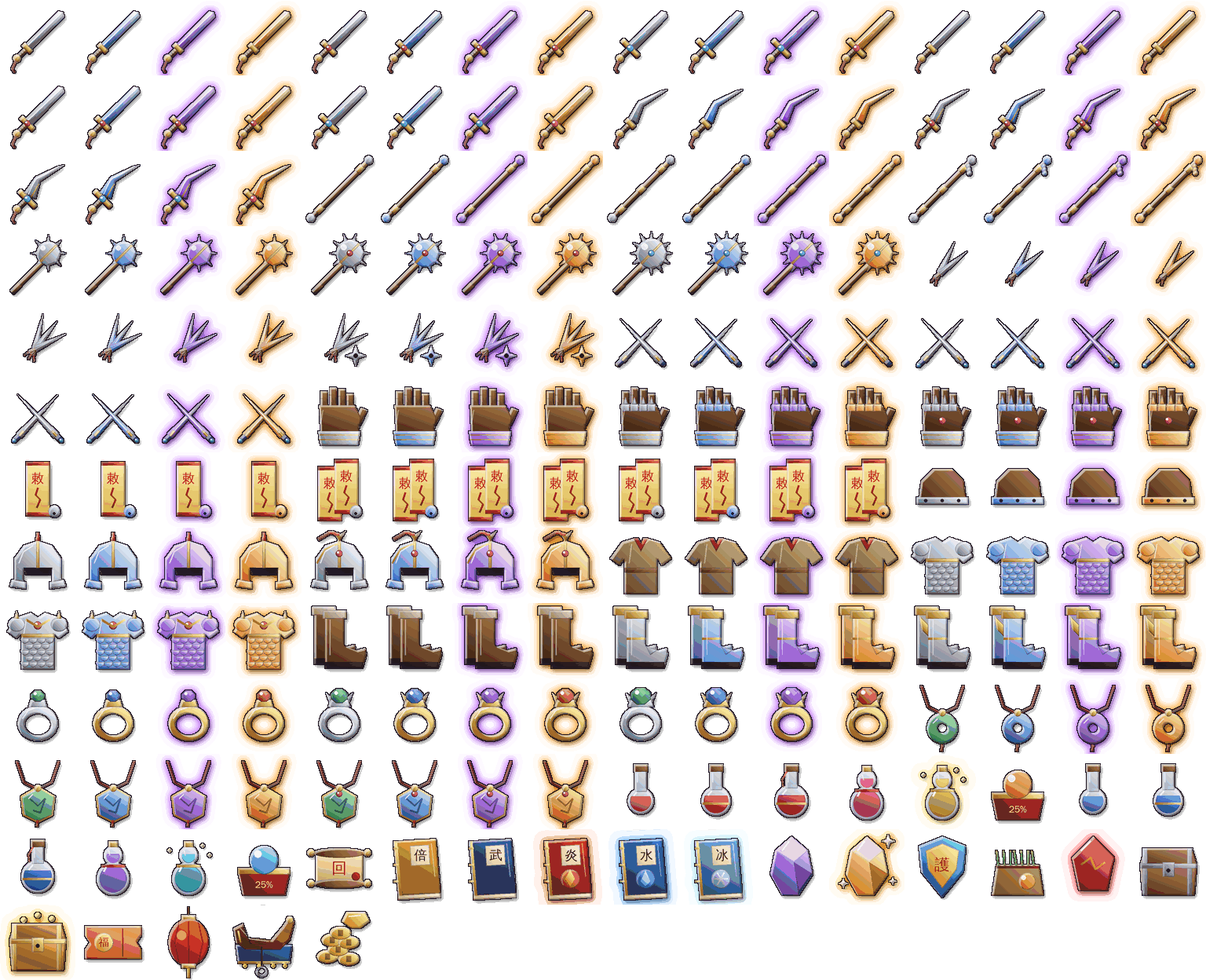
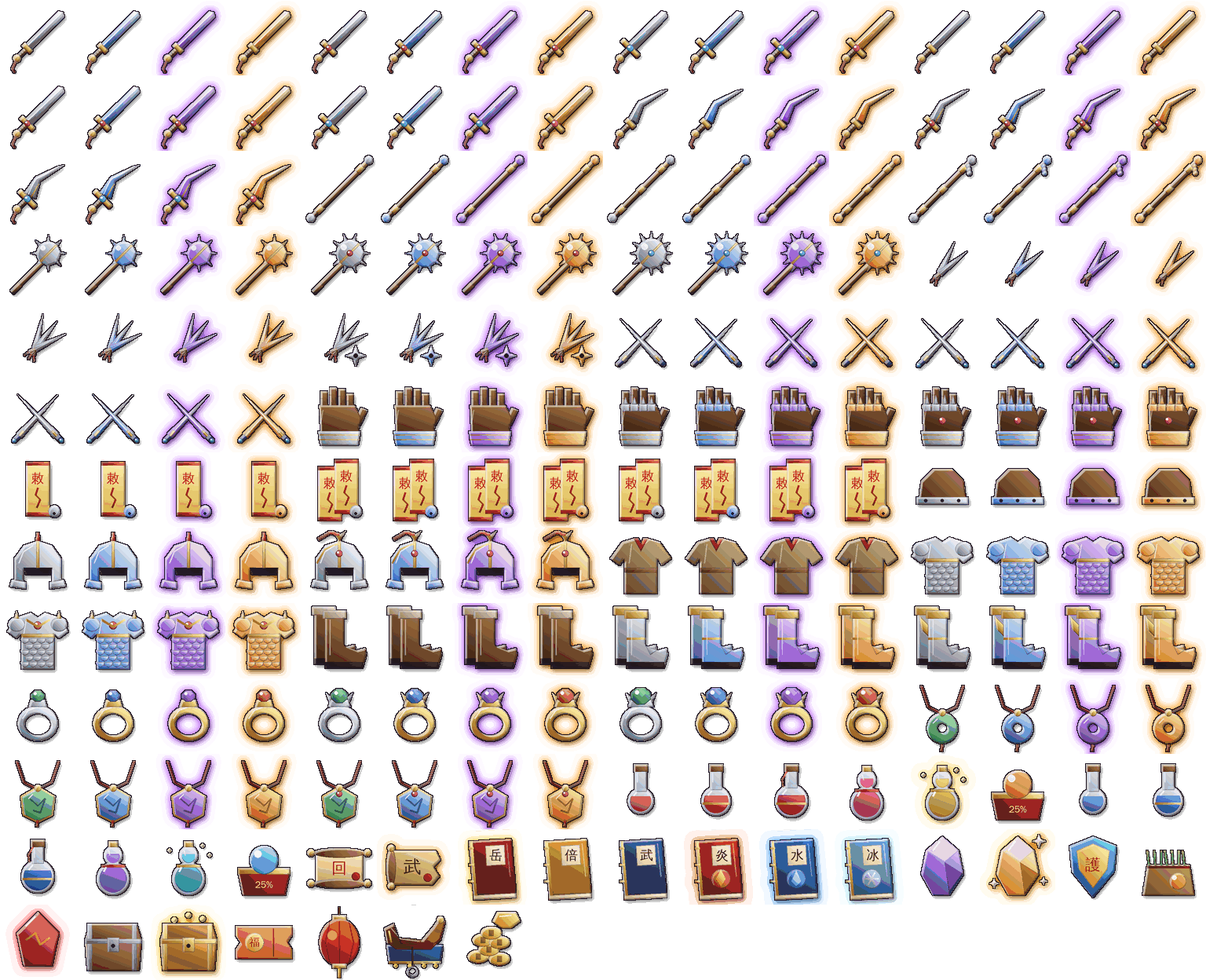
Add story bosses and items: Vo Muc Di Thu scrolls, Kim Luan, Nhac Vu Muc
Story items (Vo Muc Di Thu):
- vm_tq1..vm_tq7, the 7 torn volumes. Each world boss drops its own volume:
  Lang Vuong 1, Thanh Xa 2, Doc Co 3, Hat Hoang 4, Bang Cung 5, Thien Ma 6,
  Kim Luan 7. Con Lon, Huyet Ma and Nhac Vu Muc drop random ones.
- Top 3 damage dealers always get one, ranks 4-10 get one 40% of the time.
- Using a volume with all 7 in the bag combines them into vm_dithu
  (announced server-wide). Otherwise it lists the missing volumes.
- Studying Vo Muc Di Thu permanently adds 3% attack, defence and HP per
  read, up to 5 reads (c.vmb, applied in calcStats).
- New icons: torn scroll and red book with 岳.

New bosses and monsters:
- Kim Luan Phap Vuong (lv58), the Mongol state preceptor, at Hac Phong
  Coc, every 2 hours. Six skills: golden wheels, Long Tuong Ban Nhuoc,
  fire blade, charge plus stomp, great hand seal.
- Mong Co Thiet Ky (lv52) added to Hac Phong Coc, where the story says the
  Mongol army joined the cult.
- New map Nhac Vuong Mieu (minLv 65), a wide temple courtyard north of
  Vo Luong Son Coc with censer, banners, stone lamps and Nhac Gia Quan
  Hon guards (lv74) in the corners.
- World boss Nhac Vu Muc Anh Linh (lv85), every 4 hours:
  - 30M HP, 1700 attack, 420 defence. Sized for about 30 lv70 players over
    5-10 minutes.
  - 13 skills covering every element: Lich Tuyen Than Thuong, Van Tien
    Xuyen Van, Thiet Ky Dap Doanh, Hoa Thieu Lien Doanh, Hoanh Tao Thien
    Quan, Man Giang Hong, Loi Dinh Van Quan, Bac Phong Han Thuong, Son Ha
[…]

Changed region(s): [[0.0, 0.8438, 1.0, 1.0]]

diff --git a/server/data/bossskills.js b/server/data/bossskills.js
@@ -44,6 +44,27 @@ const SK = {
   hm_trao:     { name: 'Huyết Ma Trảo', pattern: 'cone', r: 270, arc: 110, windup: 900, mult: 1.8, st: ['bleed', 5000], vfx: 'blood', color: '#ff1020' },
   hm_nguyet:   { name: 'Huyết Nguyệt Giáng Thế', pattern: 'multi', n: 14, r: 80, spread: 280, windup: 1400, stagger: 80, mult: 1.2, vfx: 'blood', color: '#ff4040' },
   hm_dotkich:  { name: 'Huyết Ảnh Đột Kích', pattern: 'dash', len: 360, w: 80, windup: 700, mult: 1.4, drain: 0.3, vfx: 'blood', color: '#ff3050', then: { pattern: 'dash', len: 360, w: 80, delay: 500, mult: 1.4 } },
+  // ---- Kim Luân Pháp Vương (quốc sư Mông Cổ: kim luân + Long Tượng Bàn Nhược Công) ----
+  kl_nguluan:  { name: 'Ngũ Luân Đại Pháp', pattern: 'fan', n: 5, spreadDeg: 60, len: 460, w: 48, windup: 950, mult: 1.4, vfx: 'blade', color: '#ffd040' },
+  kl_philuan:  { name: 'Kim Luân Phi Chuyển', pattern: 'multi', n: 9, r: 78, spread: 230, windup: 1200, stagger: 120, mult: 1.2, vfx: 'holy', color: '#ffe070' },
+  kl_longtuong:{ name: 'Long Tượng Bàn Nhược', pattern: 'waves', rings: [[0, 140], [140, 260], [260, 360]], stagger: 450, windup: 1300, mult: 1.6, st: ['stun', 1000], vfx: 'rock', color: '#e0a040' },
+  kl_hoadao:   { name: 'Mật Tông Hỏa Diễm Đao', pattern: 'cone', r: 320, arc: 100, windup: 1000, mult: 1.6, st: ['burn', 4000], vfx: 'fire', color: '#ff6020' },
+  kl_xung:     { name: 'Kim Cang Xung Kích', pattern: 'dash', len: 380, w: 90, windup: 800, mult: 1.3, vfx: 'rock', color: '#ffb040', then: { pattern: 'self', r: 200, delay: 350, mult: 1.4, st: ['stun', 900] } },
+  kl_chuong:   { name: 'Đại Thủ Ấn', pattern: 'circle', r: 150, windup: 1100, mult: 2.0, st: ['stun', 1200], vfx: 'holy', color: '#ffd860' },
+  // ---- Nhạc Vũ Mục Anh Linh (boss thế giới tối thượng: thương pháp, thiết kỵ, binh pháp – đủ mọi hệ) ----
+  vm_thuong:   { name: 'Lịch Tuyền Thần Thương', pattern: 'line', len: 620, w: 84, windup: 900, mult: 1.8, st: ['bleed', 3000], vfx: 'blade', color: '#fff0c0' },
+  vm_hoanh:    { name: 'Hoành Tảo Thiên Quân', pattern: 'cone', r: 340, arc: 160, windup: 1000, mult: 1.6, st: ['slow', 2500], vfx: 'wind', color: '#e8f0ff' },
+  vm_kyxung:   { name: 'Thiết Kỵ Đạp Doanh', pattern: 'dash', len: 440, w: 110, windup: 850, mult: 1.6, vfx: 'rock', color: '#d8a050', then: { pattern: 'waves', rings: [[0, 150], [150, 280]], stagger: 400, delay: 300, mult: 1.3, st: ['stun', 800] } },
+  vm_tien:     { name: 'Vạn Tiễn Xuyên Vân', pattern: 'multi', n: 22, r: 72, spread: 340, windup: 1300, stagger: 60, mult: 1.0, vfx: 'blade', color: '#d8eaff' },
+  vm_hoa:      { name: 'Hỏa Thiêu Liên Doanh', pattern: 'multi', n: 12, r: 105, spread: 320, windup: 1400, stagger: 110, mult: 1.4, st: ['burn', 5000], vfx: 'fire', color: '#ff6a20' },
+  vm_mangiang: { name: 'Mãn Giang Hồng', pattern: 'waves', rings: [[0, 120], [120, 230], [230, 340], [340, 450]], stagger: 420, windup: 1300, mult: 1.5, st: ['bleed', 5000], vfx: 'blood', color: '#ff2030' },
+  vm_tinhtrung:{ name: 'Tinh Trung Báo Quốc', pattern: 'self', r: 330, windup: 2100, mult: 2.4, vfx: 'holy', color: '#ffe080', then: { pattern: 'star', n: 8, len: 480, w: 56, delay: 500, mult: 1.4 } },
+  vm_diachan:  { name: 'Sơn Hà Chấn Động', pattern: 'star', n: 6, len: 470, w: 64, windup: 1100, mult: 1.6, st: ['stun', 1000], vfx: 'rock', color: '#d8a050', then: { pattern: 'ring', r1: 180, r2: 330, delay: 600, mult: 1.3 } },
+  vm_loi:      { name: 'Lôi Đình Vạn Quân', pattern: 'multi', n: 10, r: 100, spread: 300, windup: 1300, stagger: 160, mult: 1.5, st: ['stun', 900], vfx: 'thunder', color: '#fff27a' },
+  vm_bang:     { name: 'Bắc Phong Hàn Thương', pattern: 'fan', n: 7, spreadDeg: 80, len: 480, w: 46, windup: 950, mult: 1.3, st: ['freeze', 1400], vfx: 'ice', color: '#b0f0ff' },
+  vm_langyen:  { name: 'Lang Yên Phong Hỏa', pattern: 'multi', n: 8, r: 110, spread: 300, windup: 1200, stagger: 120, mult: 1.0, st: ['poison', 6000], vfx: 'poison', color: '#9aff50' },
+  vm_quanhon:  { name: 'Nhạc Gia Quân Hồn', pattern: 'ring', r1: 120, r2: 360, windup: 1400, mult: 1.3, pull: 0.35, vfx: 'dark', color: '#c080ff', summon: 4 },
+  vm_tuyetanh: { name: 'Tuyệt Ảnh Liên Thương', pattern: 'parallel', n: 5, len: 540, w: 54, gap: 80, stagger: 200, windup: 900, mult: 1.4, vfx: 'wind', color: '#ffffff' },
   // ---- Boss phó bản ----
   pb1_chuy:    { name: 'Bá Vương Chùy', pattern: 'circle', r: 130, windup: 1100, mult: 1.8, st: ['stun', 1200], vfx: 'rock', color: '#ffb040' },
   pb1_toan:    { name: 'Toàn Phong Chùy', pattern: 'waves', rings: [[0, 170], [0, 170], [0, 170]], stagger: 450, windup: 900, mult: 0.8, vfx: 'wind', color: '#ffd080' },
@@ -70,6 +91,8 @@ const BOSS_SKILLS = {
   boss_ma: ['ma_giaithe', 'ma_diem', 'ma_hapt', 'ma_anh'],
   boss_conlon: ['cl_ngulo', 'cl_luongnghi', 'cl_thaicuc', 'cl_loiquang'],
   boss_huyet: ['hm_haithao', 'hm_trao', 'hm_nguyet', 'hm_dotkich'],
+  boss_kimluan: ['kl_nguluan', 'kl_philuan', 'kl_longtuong', 'kl_hoadao', 'kl_xung', 'kl_chuong'],
+  boss_vumuc: ['vm_thuong', 'vm_tien', 'vm_kyxung', 'vm_hoa', 'vm_hoanh', 'vm_mangiang', 'vm_loi', 'vm_bang', 'vm_diachan', 'vm_langyen', 'vm_tuyetanh', 'vm_quanhon', 'vm_tinhtrung'],
   pb1_boss: ['pb1_chuy', 'pb1_toan', 'pb1_xung'],
   pb2_boss: ['pb2_thidoc', 'pb2_hong', 'pb2_cotthu'],
   pb3_boss: ['pb3_haithao', 'pb3_trao', 'pb3_anh'],

diff --git a/server/data/maps.js b/server/data/maps.js
@@ -159,7 +159,7 @@ const MAP_DEFS = {
     name: 'Hắc Phong Cốc', theme: 'tomb', w: 44, h: 30, seed: 67, lv: '48-54', tier: 5,
     portals: [{ side: 'W', to: 'bang_cung' }, { side: 'E', to: 'ma_giao' }],
     npcs: [],
-    spawns: [['ma_lang', 8], ['hac_y_ma', 8], ['viem_quy', 7], ['viem_quy', 6]]
+    spawns: [['ma_lang', 8], ['hac_y_ma', 8], ['viem_quy', 7], ['viem_quy', 6], ['mong_co_ky', 7], ['mong_co_ky', 6]]
   },
   ma_giao: {
     name: 'Ma Giáo Cấm Địa', theme: 'demon', w: 48, h: 36, seed: 71, lv: '50+', tier: 5,
@@ -243,7 +243,7 @@ const MAP_DEFS = {
   },
   vo_luong: {
     name: 'Vô Lượng Sơn Cốc', theme: 'bamboo', w: 48, h: 36, seed: 127, lv: '72-80', tier: 7, minLv: 65,
-    portals: [{ side: 'W', to: 'con_lon' }, { side: 'E', to: 'huyet_ma' }],
+    portals: [{ side: 'W', to: 'con_lon' }, { side: 'E', to: 'huyet_ma' }, { side: 'N', to: 'nhac_mieu', at: 0.5 }],
     npcs: [{ id: 'thuong_nhan', x: 5, y: 15 }, { id: 'xa_phu', x: 6, y: 19 }],
     spawns: [['doc_mang', 9], ['doc_mang', 7], ['xich_ho', 8], ['xich_ho', 7], ['vo_luong_kiem', 7], ['vo_luong_kiem', 6]]
   },
@@ -252,6 +252,13 @@ const MAP_DEFS = {
     portals: [{ side: 'W', to: 'vo_luong' }, { side: 'E', to: 'doan_hon' }],
     npcs: [{ id: 'thuong_nhan', x: 5, y: 15 }, { id: 'xa_phu', x: 6, y: 19 }],
     spawns: [['huyet_lang', 9], ['huyet_lang', 7], ['huyet_ma_binh', 8], ['huyet_ma_binh', 7], ['huyet_sat', 7], ['huyet_sat', 6]]
+  },
+  // Nhạc Vương Miếu: sân miếu rộng cho cả võ lâm hợp sức đánh Boss thế giới Nhạc Vũ Mục Anh Linh
+  nhac_mieu: {
+    name: 'Nhạc Vương Miếu', theme: 'arena', w: 52, h: 40, seed: 141, lv: '70+', tier: 7, minLv: 65, temple: true,
+    portals: [{ side: 'S', to: 'vo_luong', at: 0.5 }],
+    npcs: [{ id: 'thuong_nhan', x: 22, y: 34 }],
+    spawns: [['nhac_gia_quan', 5, 10, 30, 3], ['nhac_gia_quan', 5, 41, 30, 3], ['nhac_gia_quan', 4, 10, 10, 3], ['nhac_gia_quan', 4, 41, 10, 3]]
   },
   doan_hon: {
     name: 'Đoạn Hồn Nhai', theme: 'tomb', w: 44, h: 32, seed: 137, lv: '88-99', tier: 8, minLv: 85,
@@ -540,6 +547,13 @@ function generate(id, def = MAP_DEFS[id]) {
   if (def.theme === 'arena') {
     for (let y = 5; y < h - 5; y++) for (let x = 6; x < w - 6; x++) set(x, y, T.FLOOR);
   }
+  if (def.temple) {   // miếu thờ: sân đá trống giữa (chỗ Boss), cờ, đèn đá, lư hương, cây cổ thụ quanh tường
+    for (let y = 4; y < h - 4; y++) for (let x = 5; x < w - 5; x++) set(x, y, T.FLOOR);
+    for (let y = 1; y < h - 1; y++) for (let x = 1; x < w - 1; x++) if ((x < 4 || x > w - 5 || y < 3) && r() < 0.5) set(x, y, T.TREE);
+    props.push({ x: cx, y: 6, k: 'censer' });
+    for (const dx of [-9, -5, 5, 9]) props.push({ x: cx + dx, y: 5, k: 'banner' });
+    for (const [px, py] of [[8, 9], [w - 9, 9], [8, h - 10], [w - 9, h - 10], [cx - 12, cy], [cx + 12, cy]]) props.push({ x: px, y: py, k: 'stonelamp' });
+  }
   if (def.tourney) {   // Đại Hội: sân đá rộng, không chướng ngại, hồ nước bốn góc
     for (let y = 2; y < h - 2; y++) for (let x = 2; x < w - 2; x++) set(x, y, T.FLOOR);
     for (const [qx, qy] of [[4, 4], [w - 7, 4], [4, h - 7], [w - 7, h - 7]]) for (let y = 0; y < 3; y++) for (let x = 0; x < 3; x++) set(qx + x, qy + y, T.WATER);
@@ -627,7 +641,7 @@ function generate(id, def = MAP_DEFS[id]) {
   return {
     id, name: def.name, theme: def.theme, w, h, tiles: g, safe: !!def.safe, pvp: !!def.pvp, tourney: !!def.tourney, minLv: def.minLv || 1, lv: def.lv, tier: def.tier ?? 0, town: !!def.town,
     portals, npcs: def.npcs, spawns, walkable, buildings, props, sect: def.sect || null, noPk: !!def.noPk,
-    boss: { x: bossSpot % w, y: (bossSpot / w) | 0 },
+    boss: def.temple ? { x: cx, y: cy - 4 } : { x: bossSpot % w, y: (bossSpot / w) | 0 },   // miếu: Boss đứng giữa sân
     center: { x: cx, y: cy }
   };
 }

diff --git a/server/data/monsters.js b/server/data/monsters.js
@@ -103,6 +103,9 @@ const MONSTERS = {
   pb1_boss:      { name: 'Hắc Phong Trại Chủ', lv: 26, sprite: 'bandit',   color: '#101820', aggro: true,  speed: 110, range: 80, pb: 1, pbBoss: 1 },
   pb2_boss:      { name: 'Huyền Cung Thi Vương', lv: 46, sprite: 'ghost',  color: '#4a5a30', aggro: true,  speed: 95,  range: 85, pb: 1, pbBoss: 1 },
   pb3_boss:      { name: 'Huyết Ma Cung Chủ',  lv: 72, sprite: 'demon',    color: '#600010', aggro: true,  speed: 110, range: 95, pb: 1, pbBoss: 1 },
+  // Cốt truyện Võ Mục Di Thư: quân Mông Cổ hội quân ở Hắc Phong Cốc, anh hồn Nhạc Gia Quân canh Nhạc Vương Miếu
+  mong_co_ky:   { name: 'Mông Cổ Thiết Kỵ',   lv: 52, sprite: 'bandit',   color: '#5a4a2a', aggro: true,  speed: 120, range: 70 },
+  nhac_gia_quan:{ name: 'Nhạc Gia Quân Hồn',  lv: 74, sprite: 'bandit',   color: '#c8a040', aggro: true,  speed: 115, range: 75 },
   // Cướp tiêu tặc: chỉ xuất hiện khi phục kích xe tiêu
   tieu_tac1:    { name: 'Cướp Tiêu Tặc',      lv: 18, sprite: 'bandit',   color: '#3a1a1a', aggro: true,  speed: 115, range: 60 },
   tieu_tac2:    { name: 'Cướp Tiêu Đầu Lĩnh', lv: 33, sprite: 'bandit',   color: '#5a0a2a', aggro: true,  speed: 120, range: 65 },
@@ -130,8 +133,15 @@ const BOSSES = {
   boss_bang:  { name: 'Băng Cung Cung Chủ', lv: 50, sprite: 'yeti',   color: '#b0e0ff', map: 'bang_cung', every: 120, offset: 50, speed: 100, range: 100 },
   boss_ma:    { name: 'Thiên Ma Giáo Chủ', lv: 62, sprite: 'demon',   color: '#8b0000', map: 'ma_giao',  every: 180, offset: 0, speed: 110, range: 110 },
   boss_conlon: { name: 'Côn Lôn Chưởng Môn', lv: 75, sprite: 'bandit', color: '#e8eef8', map: 'con_lon',  every: 120, offset: 40, speed: 120, range: 110 },
-  boss_huyet:  { name: 'Huyết Ma Lão Tổ',   lv: 92, sprite: 'demon',    color: '#600010', map: 'huyet_ma', every: 180, offset: 90, speed: 112, range: 120 }
+  boss_huyet:  { name: 'Huyết Ma Lão Tổ',   lv: 92, sprite: 'demon',    color: '#600010', map: 'huyet_ma', every: 180, offset: 90, speed: 112, range: 120 },
+  // Quốc sư Mông Cổ – kẻ đưa thiết kỵ tới Hắc Phong Cốc hội quân với Ma Giáo
+  boss_kimluan: { name: 'Kim Luân Pháp Vương', lv: 58, sprite: 'bandit', color: '#b8281e', map: 'hac_phong_coc', every: 120, offset: 70, speed: 115, range: 100, size: 1.35, scroll: 7 },
+  // Boss thế giới tối thượng: anh linh Nhạc Vũ Mục thử thách hậu nhân – cần cả võ lâm (≈30 người cấp 70, 5-10 phút)
+  boss_vumuc: { name: 'Nhạc Vũ Mục Anh Linh', lv: 85, sprite: 'bandit', color: '#d8b040', map: 'nhac_mieu', every: 240, offset: 120, speed: 108, range: 130,
+                size: 1.9, world: true, hpFix: 30000000, atkFix: 1700, defFix: 420, expK: 220, goldK: 400 }
 };
+// boss -> tàn quyển Võ Mục Di Thư rơi ra (Côn Lôn / Huyết Ma / Nhạc Vũ Mục rơi ngẫu nhiên)
+const SCROLL_OF = { boss_soi: 1, boss_truc: 2, boss_hoason: 3, boss_samac: 4, boss_bang: 5, boss_ma: 6, boss_kimluan: 7 };
 for (const id in BOSSES) {
   const b = BOSSES[id];
   b.id = id;
@@ -139,11 +149,12 @@ for (const id in BOSSES) {
   b.boss = true;
   b.aggro = true;
   const s = stats(b.lv, 1);
-  b.hp = Math.round(s.hp * 45 * (1.4 + b.lv / 120));   // boss trâu hơn hẳn ở cấp cao
-  b.atk = Math.round(s.atk * 1.5);
-  b.def = Math.round(s.def * 1.3);
-  b.exp = s.exp * 60;
-  b.gold = s.gold * 80;
+  b.hp = b.hpFix || Math.round(s.hp * 45 * (1.4 + b.lv / 120));   // boss trâu hơn hẳn ở cấp cao
+  b.atk = b.atkFix || Math.round(s.atk * 1.5);
+  b.def = b.defFix || Math.round(s.def * 1.3);
+  b.exp = s.exp * (b.expK || 60);
+  b.gold = s.gold * (b.goldK || 80);
+  b.scroll = SCROLL_OF[id] || 0;
 }
 
-module.exports = { MONSTERS, BOSSES };
+module.exports = { MONSTERS, BOSSES, SCROLL_OF };

diff --git a/server/game/world.js b/server/game/world.js
@@ -2,6 +2,7 @@
 const { CLASSES, classSkill, PASSIVE_SLOT } = require('../data/classes');
 const { ITEMS, RARITY, equipId } = require('../data/items');
 const { MONSTERS, BOSSES } = require('../data/monsters');
+const VM_IDS = ['vm_tq1', 'vm_tq2', 'vm_tq3', 'vm_tq4', 'vm_tq5', 'vm_tq6', 'vm_tq7'];
 const { MAPS, TILE, isSolidAt, SOLID } = require('../data/maps');
 const { NPCS, TELEPORTS } = require('../data/npcs');
 const { TUTORIAL } = require('../data/quests');
@@ -916,7 +917,27 @@ class World {
         const p = this.players.get(uid);
         if (p) this.giveReward(p, { items: [['boss_chest', 1]], knb: [20, 10, 5][i] }, `Top ${i + 1} sát thương Boss`);
       });
-      const n = U.randInt(4, 7);
+      // tàn quyển Võ Mục Di Thư: top 3 chắc chắn, hạng 4-10 có 40% (boss thế giới: mọi người góp ≥0.5% sát thương)
+      const total = ranking.reduce((a, [, d]) => a + d, 0) || 1;
+      ranking.forEach(([uid, d], i) => {
+        const p = this.players.get(uid);
+        if (!p) return;
+        const sid = tpl.scroll ? 'vm_tq' + tpl.scroll : (tpl.lv >= 70 ? VM_IDS[U.randInt(0, 6)] : null);
+        if (!sid) return;
+        const got = tpl.world ? d / total >= 0.005 : (i < 3 || (i < 10 && Math.random() < 0.4));
+        if (got) this.giveReward(p, { items: [[sid, 1]] }, `Boss ${tpl.name}`);
+      });
+      if (tpl.world) {   // boss thế giới: thưởng lớn theo thứ hạng sát thương
+        ranking.forEach(([uid, d], i) => {
+          const p = this.players.get(uid);
+          if (!p || d / total < 0.005) return;
+          const items = [['stone2', i < 10 ? 3 : 1], ['boss_chest', i < 3 ? 3 : i < 10 ? 2 : 1]];
+          if (i === 0) items.push(['vm_dithu', 1]);
+          if (i < 3) items.push(['insure', 1]);
+          this.giveReward(p, { items, knb: i < 3 ? [200, 120, 80][i] : i < 10 ? 40 : 15 }, `Hạng ${i + 1} đánh ${tpl.name}`);
+        });
+      }
+      const n = U.randInt(4, 7) + (tpl.world ? 10 : 0);
       for (let i = 0; i < n; i++) {
         const r = Math.random();
         const rar = r < 0.06 * dr ? 'legendary' : r < 0.3 * dr ? 'epic' : 'rare';
@@ -1131,6 +1152,27 @@ class World {
         if (mt.rarity === 'epic' || mt.rarity === 'legendary') this.features.announce(`🐉 ${c.name} đã thuần phục thú cưỡi [${mt.name}]!`);
       }
       this.recalc(p); this.db.markDirty();
+      return;
+    }
+    if (e.vmCombine) {   // ghép đủ 7 tàn quyển -> Võ Mục Di Thư
+      const missing = VM_IDS.filter(id => !U.countItem(c, id));
+      if (missing.length) return this.toast(p, `Cần đủ 7 tàn quyển để ghép (đang có ${7 - missing.length}/7). Còn thiếu: ${missing.map(id => ITEMS[id].name.split('· ')[1]).join(', ')}`, 'error');
+      for (const id of VM_IDS) U.removeItemById(c, id, 1);
+      this.giveItem(p, 'vm_dithu', 1);
+      this.toast(p, '📜 Bảy tàn quyển hợp nhất – Võ Mục Di Thư tái hiện nhân gian!', 'reward');
+      this.features.announce(`📜 ${c.name} đã gom đủ 7 tàn quyển, ghép thành [Võ Mục Di Thư]!`);
+      this.fx(p.mapId, { t: 'levelup', id: p.id, x: p.x, y: p.y });
+      p.dirtyMe = true; this.db.markDirty();
+      return;
+    }
+    if (e.vmStudy) {   // nghiền ngẫm binh thư: tăng chỉ số vĩnh viễn
+      if ((c.vmb | 0) >= 5) return this.toast(p, 'Bạn đã lĩnh hội trọn vẹn Võ Mục Di Thư (5/5)', 'error');
+      U.removeByUid(c, uid, 1);
+      c.vmb = (c.vmb | 0) + 1;
+      this.recalc(p);
+      this.toast(p, `Lĩnh hội Võ Mục Di Thư tầng ${c.vmb}/5: công, thủ, sinh lực +${c.vmb * 3}%`, 'reward');
+      this.fx(p.mapId, { t: 'levelup', id: p.id, x: p.x, y: p.y, small: true });
+      this.db.markDirty();
       return;
     }
     if (e.tieuChest) {

diff --git a/public/js/game.js b/public/js/game.js
@@ -1250,13 +1250,14 @@
     const mf = Assets.monsterFrame(e.type, state, fi, e.dir);
     if (mf) {
       const face = e.face || 2, flip = mf.rig ? e.dir === 1 : face === 1;
-      const half = Math.max(12, mf.half * 0.8);
+      const SZ = e.boss ? (info.size || 1.25) : 1;   // boss thế giới vẽ to hơn
+      const half = Math.max(12, mf.half * 0.8) * SZ, top = mf.top * SZ;
       ctx.save();
       ctx.translate(Math.round(e.x), Math.round(e.y));
       if (e.boss) {
-        const g = ctx.createRadialGradient(0, -mf.top / 2, 10, 0, -mf.top / 2, mf.top);
-        g.addColorStop(0, 'rgba(255,40,40,0.32)'); g.addColorStop(1, 'rgba(255,0,0,0)');
-        ctx.fillStyle = g; ctx.beginPath(); ctx.arc(0, -mf.top / 2, mf.top, 0, Math.PI * 2); ctx.fill();
+        const g = ctx.createRadialGradient(0, -top / 2, 10, 0, -top / 2, top);   // boss thế giới: hào quang vàng
+        g.addColorStop(0, info.world ? `rgba(255,210,90,${0.38 + Math.sin(now / 300) * 0.08})` : 'rgba(255,40,40,0.32)'); g.addColorStop(1, 'rgba(255,0,0,0)');
+        ctx.fillStyle = g; ctx.beginPath(); ctx.arc(0, -top / 2, top, 0, Math.PI * 2); ctx.fill();
       }
       ctx.fillStyle = 'rgba(0,0,0,0.28)'; ctx.beginPath(); ctx.ellipse(0, 0, half, Math.max(4, half * 0.28), 0, 0, Math.PI * 2); ctx.fill();
       if (e.elite) {
@@ -1265,6 +1266,7 @@
       }
       if (e.born && now - e.born < 300) ctx.globalAlpha = (now - e.born) / 300;
       if (e.elite === 1) ctx.scale(1.2, 1.2);   // tinh anh to hơn
+      if (SZ !== 1) ctx.scale(SZ, SZ);
       if (flip) ctx.scale(-1, 1);
       ctx.drawImage(mf.img, mf.sx, mf.sy, mf.w, mf.h, -mf.fx, -mf.fy, mf.w, mf.h);
       if (hit) { ctx.globalCompositeOperation = 'lighter'; ctx.globalAlpha = 0.55; ctx.drawImage(mf.img, mf.sx, mf.sy, mf.w, mf.h, -mf.fx, -mf.fy, mf.w, mf.h); }
@@ -1277,7 +1279,7 @@
         ctx.beginPath(); ctx.moveTo(-bw / 3, -bh * 0.8); ctx.lineTo(-bw / 8, -bh * 0.6); ctx.moveTo(bw / 6, -bh * 0.9); ctx.lineTo(bw / 3, -bh * 0.75); ctx.stroke();
       }
       ctx.restore();
-      monsterLabel(e, info, -mf.top * (e.elite === 1 ? 1.2 : 1) - 8);
+      monsterLabel(e, info, -top * (e.elite === 1 ? 1.2 : 1) - 8);
       return;
     }
     const frame = e.moving ? Math.floor(now / 160 + e.x / 70) % 4 : Math.floor(now / 500) % 2;
@@ -1345,7 +1347,7 @@
     const lvDiff = G.me ? info.lv - G.me.level : 0;
     const col = e.boss ? '#ff4040' : lvDiff > 5 ? '#ff7070' : lvDiff < -8 ? '#9a9a9a' : '#ffe9a8';
     if (G.settings.names || e.boss || G.target === e.id) label(e.x, e.y + top - 6, `${e.boss ? '👑 ' : ''}${info.name}${info.lv ? ' Lv' + info.lv : ''}`, col, e.boss ? 14 : 11, true);
-    hpBar(e.x, e.y + top, e.boss ? 90 : 40, e.hp / e.maxHp, e.boss ? '#ff3030' : '#e5484d');
+    hpBar(e.x, e.y + top, e.boss ? (info.world ? 160 : 90) : 40, e.hp / e.maxHp, e.boss ? '#ff3030' : '#e5484d');
   }
 
   function label(x, y, text, color, size = 12, outline) {

diff --git a/server/data/items.js b/server/data/items.js
@@ -107,6 +107,11 @@ const CONSUMABLES = [
   { id: 'tieu_chest_dong', name: 'Rương Tiêu Đồng', desc: 'Rương hàng văng ra khi xe Tiêu Đồng bị cướp. Mở nhận ngân lượng, Huyền Tinh.', effect: { tieuChest: 'dong' }, price: 600, icon: 'chest' },
   { id: 'tieu_chest_bac', name: 'Rương Tiêu Bạc', desc: 'Rương hàng văng ra khi xe Tiêu Bạc bị cướp. Mở nhận nhiều ngân lượng, Huyền Tinh, có thể ra trang bị.', effect: { tieuChest: 'bac' }, price: 2500, icon: 'chest', rarity: 'rare' },
   { id: 'tieu_chest_vang', name: 'Rương Tiêu Vàng', desc: 'Rương hàng quý văng ra khi xe Tiêu Vàng bị cướp. Mở nhận rất nhiều ngân lượng, có thể ra đồ VIP, Nguyên Bảo.', effect: { tieuChest: 'vang' }, price: 6000, icon: 'chest_gold', rarity: 'epic' },
+  // Võ Mục Di Thư (cốt truyện): 7 tàn quyển rơi từ Boss thế giới, gom đủ ghép thành bộ binh thư
+  ...['Nhất', 'Nhị', 'Tam', 'Tứ', 'Ngũ', 'Lục', 'Thất'].map((n, i) => ({ id: 'vm_tq' + (i + 1), name: `Võ Mục Tàn Quyển · ${n}`, rarity: i === 6 ? 'legendary' : 'epic',
+    desc: `Tàn quyển thứ ${i + 1} của binh thư "Võ Mục Di Thư" do Nhạc Vũ Mục để lại. Gom đủ 7 tàn quyển rồi Sử dụng để ghép thành Võ Mục Di Thư.${['', ' Rơi từ Lang Vương.', ' Rơi từ Thanh Xà Tinh.', ' Rơi từ Độc Cô Cầu Bại.', ' Rơi từ Sa Mạc Hạt Hoàng.', ' Rơi từ Băng Cung Cung Chủ.', ' Rơi từ Thiên Ma Giáo Chủ.', ' Rơi từ Kim Luân Pháp Vương và Nhạc Vũ Mục Anh Linh.'][i + 1]}`,
+    effect: { vmCombine: 1 }, price: 20000 * (i + 1), icon: 'vm_scroll' })),
+  { id: 'vm_dithu', name: 'Võ Mục Di Thư', rarity: 'legendary', desc: 'Binh thư tuyệt thế của Nhạc Vũ Mục. Nghiền ngẫm (Sử dụng) để vĩnh viễn tăng 3% công, thủ và sinh lực. Tối đa 5 lần.', effect: { vmStudy: 1 }, price: 500000, lv: 50, icon: 'vm_book' },
   { id: 'wheel_ticket', name: 'Vé Vòng Quay', desc: 'Thêm 1 lượt quay Vòng Quay May Mắn', effect: { wheel: 1 }, price: 3000, icon: 'ticket' },
   { id: 'rename_card', name: 'Thẻ Đổi Tên', desc: 'Sử dụng để đổi tên nhân vật (3-14 ký tự, không trùng tên người khác). Không thể giao dịch. Lần mua đầu tiên miễn phí.', effect: { rename: 1 }, price: 50000, icon: 'ticket', rarity: 'epic', noTrade: true },
   { id: 'pet_hong_long', name: 'Hồng Long Ấu Thú', desc: 'Thú cưng rồng lửa (bản thử nghiệm). Sử dụng để triệu hồi / thu hồi. Rồng bay theo chủ, khi chủ giao chiến sẽ lao tới phun lửa vào mục tiêu (sát thương theo 35% công của chủ, gây bỏng).', effect: { pet: 'hong_long' }, price: 0, icon: 'pet:hong_long', rarity: 'legendary', stack: false, noSell: true },

diff --git a/server/app.js b/server/app.js
@@ -185,7 +185,7 @@ let gamedataCache = null;
 app.get('/api/gamedata', (req, res) => {
   if (!gamedataCache) {
     const mons = {};
-    for (const m of [...Object.values(MONSTERS), ...Object.values(BOSSES)]) mons[m.id] = { name: m.name, lv: m.lv, sprite: m.sprite, color: m.color, boss: !!m.boss, el: m.el, art: m.art };
+    for (const m of [...Object.values(MONSTERS), ...Object.values(BOSSES)]) mons[m.id] = { name: m.name, lv: m.lv, sprite: m.sprite, color: m.color, boss: !!m.boss, el: m.el, art: m.art, size: m.size, world: m.world };
     mons.chest = { name: 'Bảo Rương', lv: 1, sprite: 'chest', color: '#ffd700' };
     for (const [id, m] of Object.entries(require('./game/daihoi').DH_MONS)) mons[id] = { name: m.name, lv: m.lv, sprite: m.sprite, color: m.color, boss: !!m.boss, el: 'kim', art: m.art };
     const maps = {};

diff --git a/server/game/util.js b/server/game/util.js
@@ -180,6 +180,9 @@ function calcStats(c, buffs = [], guildLevel = 0, riding = false) {
   // cấp bậc môn phái: +2% công / thủ / sinh lực mỗi bậc
   const sr = require('../data/sect').sectRank(c);
   if (sr) { s.atk *= 1 + sr * 0.02; s.def *= 1 + sr * 0.02; s.maxHp *= 1 + sr * 0.02; }
+  // Võ Mục Di Thư: mỗi lần nghiền ngẫm +3% công / thủ / sinh lực (tối đa 5 lần)
+  const vm = Math.min(5, c.vmb | 0);
+  if (vm) { s.atk *= 1 + vm * 0.03; s.def *= 1 + vm * 0.03; s.maxHp *= 1 + vm * 0.03; }
   s.spd = Math.min(s.spd, 320);
   s.crit = Math.min(s.crit, 75);
   for (const k of ['maxHp', 'maxMp', 'atk', 'def']) s[k] = Math.round(s[k]);

diff --git a/tools/icons.py b/tools/icons.py
@@ -402,6 +402,14 @@ def scroll(ic):
     ic.text('回', 32, 33, 13, '#b01818')
     ic.paint(ic.m_ell(46, 40, 3.5, 3.5), '#e02020', '#801010', edge=0.3, shine=0)
 
+def vm_scroll(ic):   # tàn quyển Võ Mục Di Thư: cuộn giấy cũ rách mép, chữ 武, ấn đỏ
+    paper = ('#f4dca0', '#a07838')
+    ic.paint(ic.m_poly([(12, 18), (50, 18), (54, 26), (48, 32), (53, 40), (47, 47), (12, 47)]), *paper, ang=-70)
+    ic.paint(ic.m_ell(12, 32, 4, 16), *WOOD)
+    for y in (16, 48): ic.paint(ic.m_ell(12, y, 3, 3), *GOLD)
+    ic.text('武', 30, 32, 15, '#3a1a0a')
+    ic.paint(ic.m_ell(43, 41, 3.5, 3.5), '#d82020', '#801010', edge=0.3, shine=0)
+
 def book(ic, cover=('#c03030', '#5a0a10'), glyph='經', glow=None, emblem=None):
     ic.paint(ic.m_poly([(14, 10), (50, 8), (54, 54), (18, 56)]), *cover, ang=-60)
     ic.paint(ic.m_poly([(18, 56), (54, 54), (54, 58), (18, 60)]), '#fff4dc', '#c8b088', edge=0.3, shine=0)   # mép giấy
@@ -497,7 +505,8 @@ def elem_emblem(col, kind):
     return f
 
 SIMPLE = {
-    'scroll': scroll,
+    'scroll': scroll, 'vm_scroll': vm_scroll,
+    'vm_book': lambda ic: book(ic, ('#b01818', '#3a0606'), '岳'),
     'book': lambda ic: book(ic, ('#e8b030', '#7a4a08'), '倍'),
     'skillbook': lambda ic: book(ic, ('#3a5aa0', '#101a40'), '武'),
     'book_fire': lambda ic: book(ic, ('#e04020', '#5a0a08'), '炎', emblem=elem_emblem('#ff5020', 'fire')),
@@ -506,7 +515,7 @@ SIMPLE = {
     'stone': stone, 'stone2': lambda ic: stone(ic, True), 'insure': insure, 'food': food, 'blood': blood,
     'chest': chest, 'chest_gold': lambda ic: chest(ic, True), 'ticket': ticket, 'lantern': lantern, 'saddle': saddle, 'gold': gold_icon,
 }
-SIMPLE_GLOW = {'stone2': '#ffc040', 'book_fire': '#ff6020', 'book_water': '#40a0ff', 'book_ice': '#a0e8ff', 'chest_gold': '#ffd040', 'potion_r5': '#ffe060', 'blood': '#ff4040'}
+SIMPLE_GLOW = {'vm_book': '#ffd040', 'vm_scroll': '#ffb040', 'stone2': '#ffc040', 'book_fire': '#ff6020', 'book_water': '#40a0ff', 'book_ice': '#a0e8ff', 'chest_gold': '#ffd040', 'potion_r5': '#ffe060', 'blood': '#ff4040'}
 
 def build():
     tiles, index = [], {}

diff --git a/tools/monsters.py b/tools/monsters.py
@@ -1188,6 +1188,11 @@ HUMAN = {
     'thien_ma_ve': (B_('#1a0a14', 'staff', 'warrior', body='heavy', trim='#c040ff', glow='#c060ff', wcol='#d0a0ff'), 3, 3, 2, '#4a3a5a'),
     'pb1_boss': (B_('#101820', 'hammer', 'warrior', body='heavy', beard=True, trim='#e0b040', glow='#ffb040'), 2, 2, 2, '#8a8a96'),
     'boss_conlon': (B_('#e8eef8', 'sword', 'taoist', robe2='#c0d0e8', trim='#4a7ad0', belt='#4a7ad0', hair='#f0f0f8', beard=True, sleeve='wide', hem=6, wcol='#ffffff', glow='#a0d8ff'), 0, 0, 2, None),
+    # cốt truyện Võ Mục Di Thư
+    'mong_co_ky': (B_('#5a4a2a', 'saber', 'turban', body='heavy', beard=True, trim='#c89040', belt='#3a2a14', hair='#2a1a10'), 1, 1, 1, '#8a7a60'),
+    'nhac_gia_quan': (B_('#7a6a44', 'staff', 'warrior', trim='#ffd060', belt='#8a1a14', wcol='#e0e0ea', glow='#ffe080'), 2, 2, 1, '#b8a060'),
+    'boss_kimluan': (B_('#b8281e', 'hammer', 'bald', body='heavy', robe2='#e0a020', trim='#ffd040', belt='#ffd040', sleeve='wide', hem=6, wcol='#ffd040', glow='#ffd040', beads=True), 0, 0, 2, None),
+    'boss_vumuc': (B_('#c8a040', 'staff', 'warrior', body='heavy', robe2='#8a1a14', trim='#ffd060', belt='#ffd060', pants='#3a2a1a', beard=True, wcol='#f0f0f8', glow='#ffd040'), 3, 3, 2, '#d8b040'),
     # boss người
     'boss_hoason': (B_('#3a3a46', 'sword', 'taoist', robe2='#1a1a22', trim='#c8c8d8', belt='#c8c8d8', pants='#22222a', hair='#e8e8f0', beard=True,
                        sleeve='wide', hem=6, wcol='#ffffff', glow='#c0e0ff'), 0, 0, 2, None),
